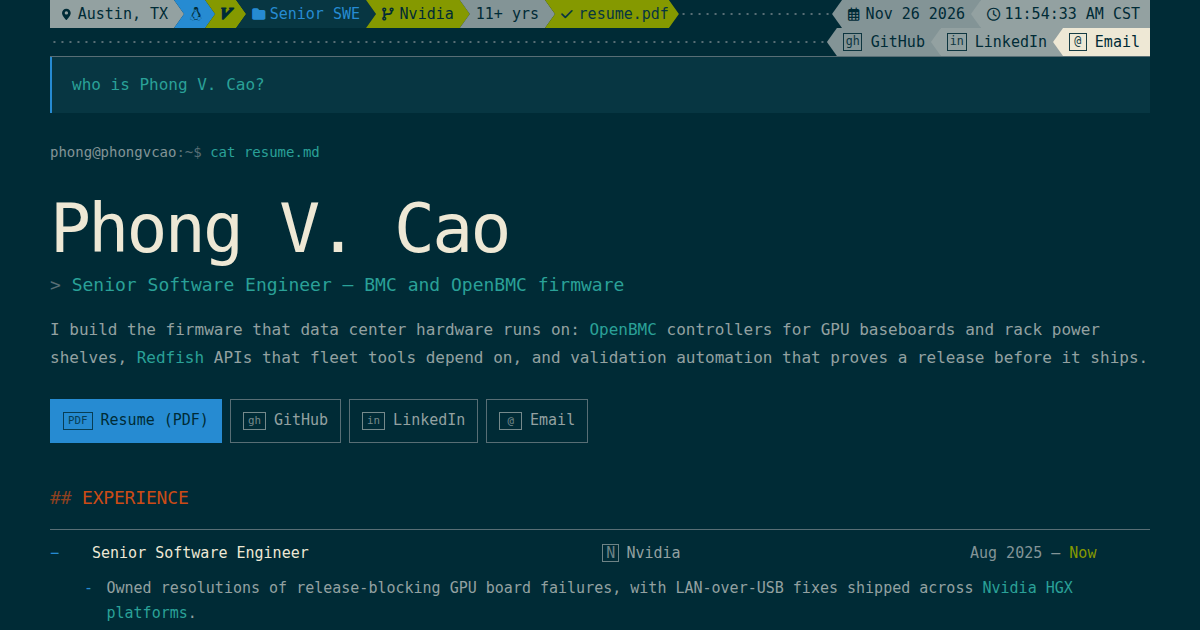
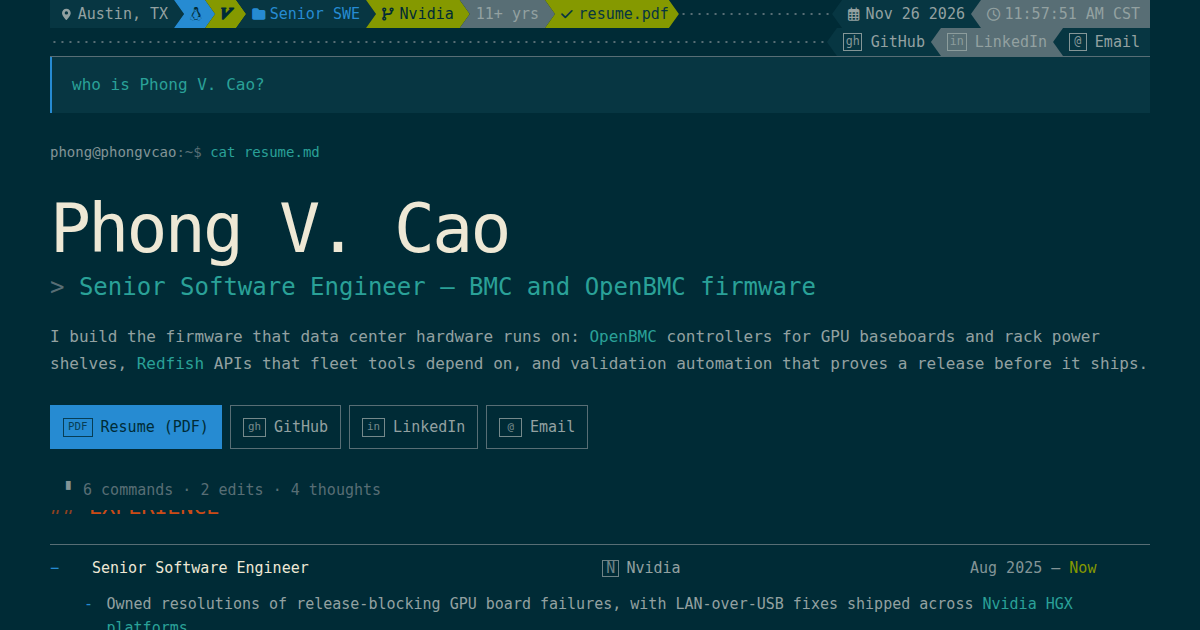
site: type scale, activity above the box, darker powerline
- Role line 24 px, section headings 22 px bold, project titles 17 px
- The 6 commands row sits above the prompt box instead of inside it; the page measures it too
- Powerline neutrals drop to base02 and base01; date and GitHub now match the question block
- Nvidia stays green: p10k green means clean, yellow means a dirty worktree

diff --git a/styles.css b/styles.css
@@ -97,7 +97,7 @@ a:hover {
   flex: 1;
   width: min(1100px, calc(100% - 48px));
   margin: 0 auto;
-  padding: var(--topbar-h) 0 calc(var(--prompt-h) + var(--status-h) + 48px);
+  padding: var(--topbar-h) 0 calc(var(--prompt-h) + var(--status-h) + var(--activity-h) + 48px);
 }
 
 .user-message {
@@ -167,8 +167,8 @@ h1 {
 .role {
   margin: 0 0 18px;
   color: var(--blue-bright);
-  font-size: 1.125rem;
-  line-height: 1.5;
+  font-size: 1.5rem;
+  line-height: 1.4;
 }
 
 .role .mark {
@@ -244,10 +244,10 @@ code {
 }
 
 .section h2 {
-  margin: 0 0 16px;
+  margin: 0 0 18px;
   color: var(--vim-orange-light);
-  font-size: 1.125rem;
-  font-weight: 600;
+  font-size: 1.375rem;
+  font-weight: 700;
   letter-spacing: -0.01em;
   text-transform: uppercase;
 }
@@ -266,7 +266,7 @@ code {
 .work-item h3 {
   margin: 0 0 4px;
   color: var(--vim-orange-light);
-  font-size: 1rem;
+  font-size: 1.0625rem;
   font-weight: 600;
 }
 
@@ -660,10 +660,18 @@ code {
 }
 
 .prompt-activity {
+  position: fixed;
+  left: 0;
+  right: 0;
+  bottom: calc(var(--status-h) + var(--prompt-h));
+  z-index: 100;
   display: flex;
   align-items: center;
   gap: 8px;
-  margin: 6px 0 0;
+  width: min(1100px, calc(100% - 48px));
+  margin: 0 auto;
+  padding: 0 16px 8px;
+  background: var(--base03);
   color: var(--base01);
   font-size: 0.9375rem;
   line-height: 1.5;
@@ -950,8 +958,8 @@ code {
 }
 
 .pl-light {
-  --seg-bg: var(--base1);
-  --seg-fg: var(--base03);
+  --seg-bg: var(--base02);
+  --seg-fg: var(--base1);
 }
 
 
@@ -980,30 +988,30 @@ code {
   --seg-fg: var(--base1);
 }
 
-/* Right side: grey steps, darkest grey on the left, lightest at the edge. */
+/* Right side: dark steps, base02 under base01, text stays muted. */
 .pl-line:not(.pl-line-social) .pl-right .pl-seg:nth-child(1) {
-  --seg-bg: var(--base0);
-  --seg-fg: var(--base03);
+  --seg-bg: var(--base02);
+  --seg-fg: var(--base1);
 }
 
 .pl-line:not(.pl-line-social) .pl-right .pl-seg:nth-child(2) {
-  --seg-bg: var(--base1);
-  --seg-fg: var(--base03);
+  --seg-bg: var(--base01);
+  --seg-fg: var(--base1);
 }
 
 .pl-line-social .pl-seg:nth-child(1) {
-  --seg-bg: var(--base0);
-  --seg-fg: var(--base03);
+  --seg-bg: var(--base02);
+  --seg-fg: var(--base1);
 }
 
 .pl-line-social .pl-seg:nth-child(2) {
-  --seg-bg: var(--base1);
-  --seg-fg: var(--base03);
+  --seg-bg: var(--base01);
+  --seg-fg: var(--base1);
 }
 
 .pl-line-social .pl-seg:nth-child(3) {
-  --seg-bg: var(--base2);
-  --seg-fg: var(--base03);
+  --seg-bg: var(--base02);
+  --seg-fg: var(--base1);
 }
 
 .pl-badge {
@@ -1020,8 +1028,8 @@ code {
 }
 
 .pl-context {
-  --seg-bg: var(--base0);
-  --seg-fg: var(--base03);
+  --seg-bg: var(--base01);
+  --seg-fg: var(--base1);
 }
 
 @media (max-width: 720px) {
@@ -1044,7 +1052,7 @@ code {
   }
 
   .role {
-    font-size: 1rem;
+    font-size: 1.25rem;
   }
 
   .intro {

diff --git a/index.html b/index.html
@@ -314,13 +314,13 @@
         </div>
       </section>
 
+      <p class="prompt-activity"><span class="spinner" aria-hidden="true">▘</span><span>6 commands · 2 edits · 4 thoughts</span></p>
       <div class="prompt-box">
         <a class="prompt-link" href="mailto:phongvcao@gmail.com">
           <span>phongvcao@gmail.com</span>
           <span class="cursor cursor-small" aria-hidden="true"></span>
         </a>
         <p class="prompt-meta"><span class="model-agent">Ultracode</span> <span class="model-auto">auto</span> <span class="model-dim">·</span> <span class="model-name">DeepSeek V4.1 Flash 1017</span> <span class="model-dim">·</span> <span class="model-max">max</span></p>
-        <p class="prompt-activity"><span class="spinner" aria-hidden="true">▘</span><span>6 commands · 2 edits · 4 thoughts</span></p>
       </div>
       <div class="prompt-status" aria-label="Session status">
         <span class="status-left"><span class="status-bar" aria-hidden="true"><span class="scan scan-fwd"></span><span class="scan scan-back"></span></span><span class="status-hint"><span class="status-key">esc</span> interrupt</span></span>
@@ -336,7 +336,8 @@
         var pairs = [
           ["--topbar-h", document.querySelector(".pl-top")],
           ["--prompt-h", document.querySelector(".prompt-box")],
-          ["--status-h", document.querySelector(".prompt-status")]
+          ["--status-h", document.querySelector(".prompt-status")],
+          ["--activity-h", document.querySelector(".prompt-activity")]
         ];
         pairs.forEach(function (pair) {
           var el = pair[1];
